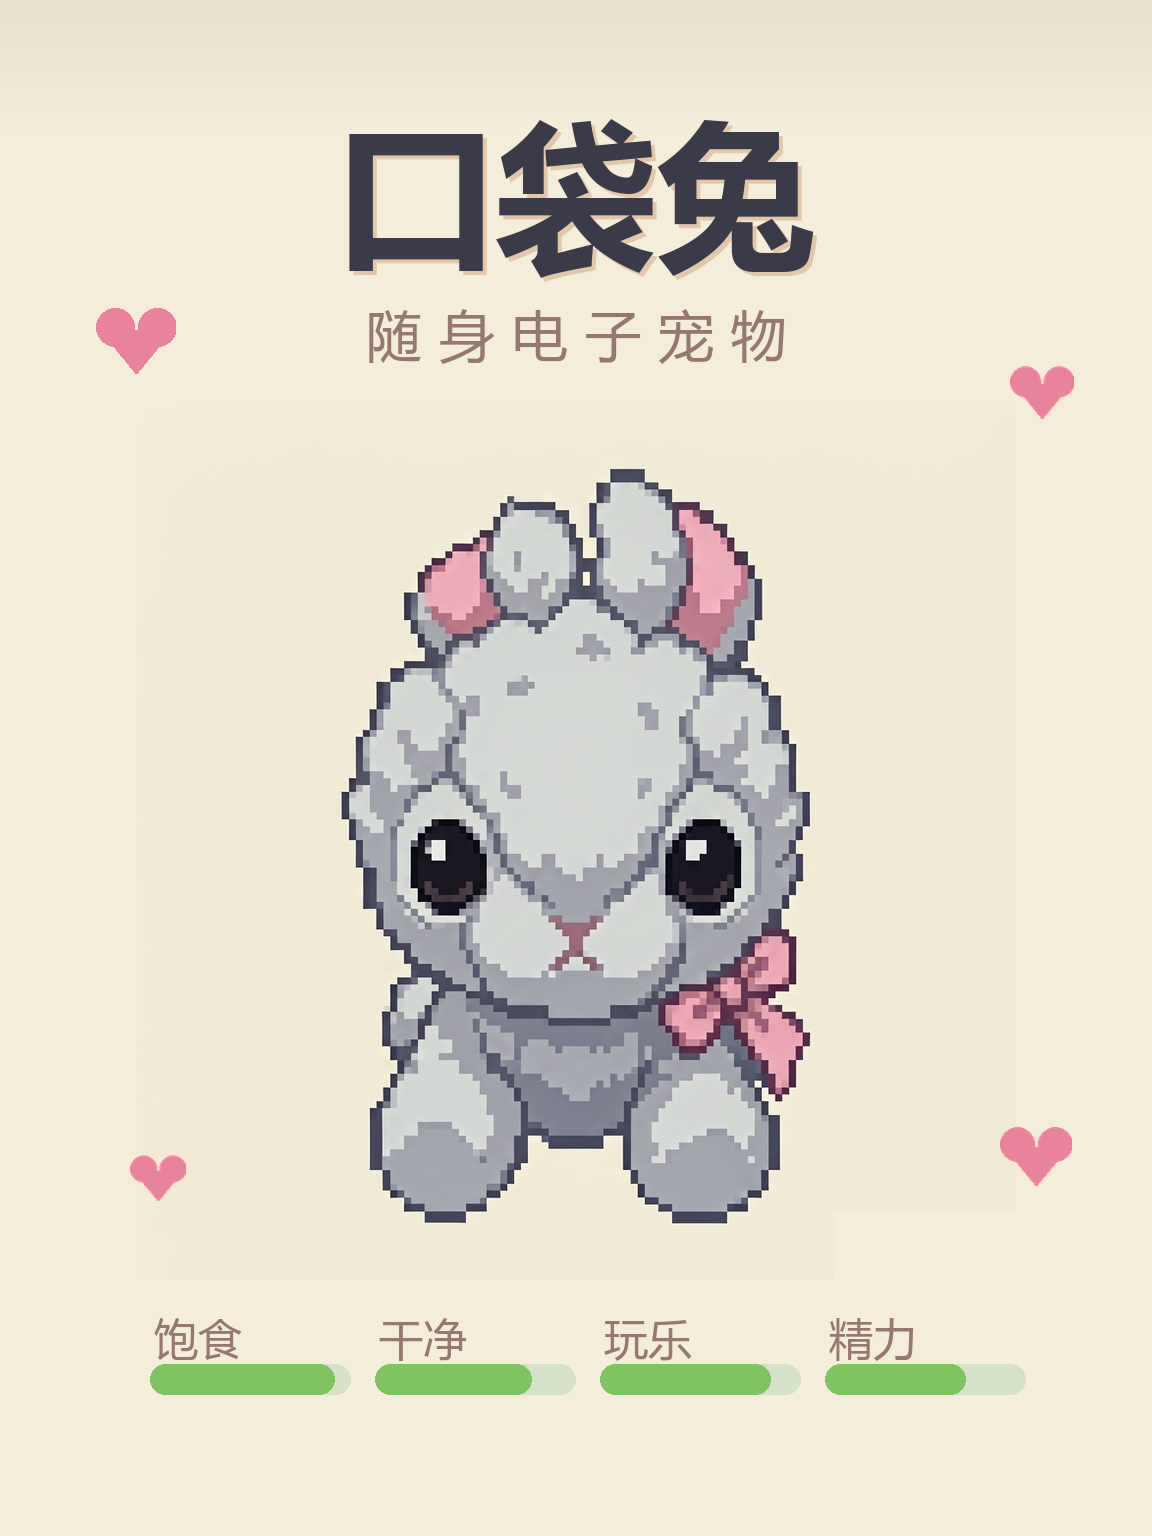
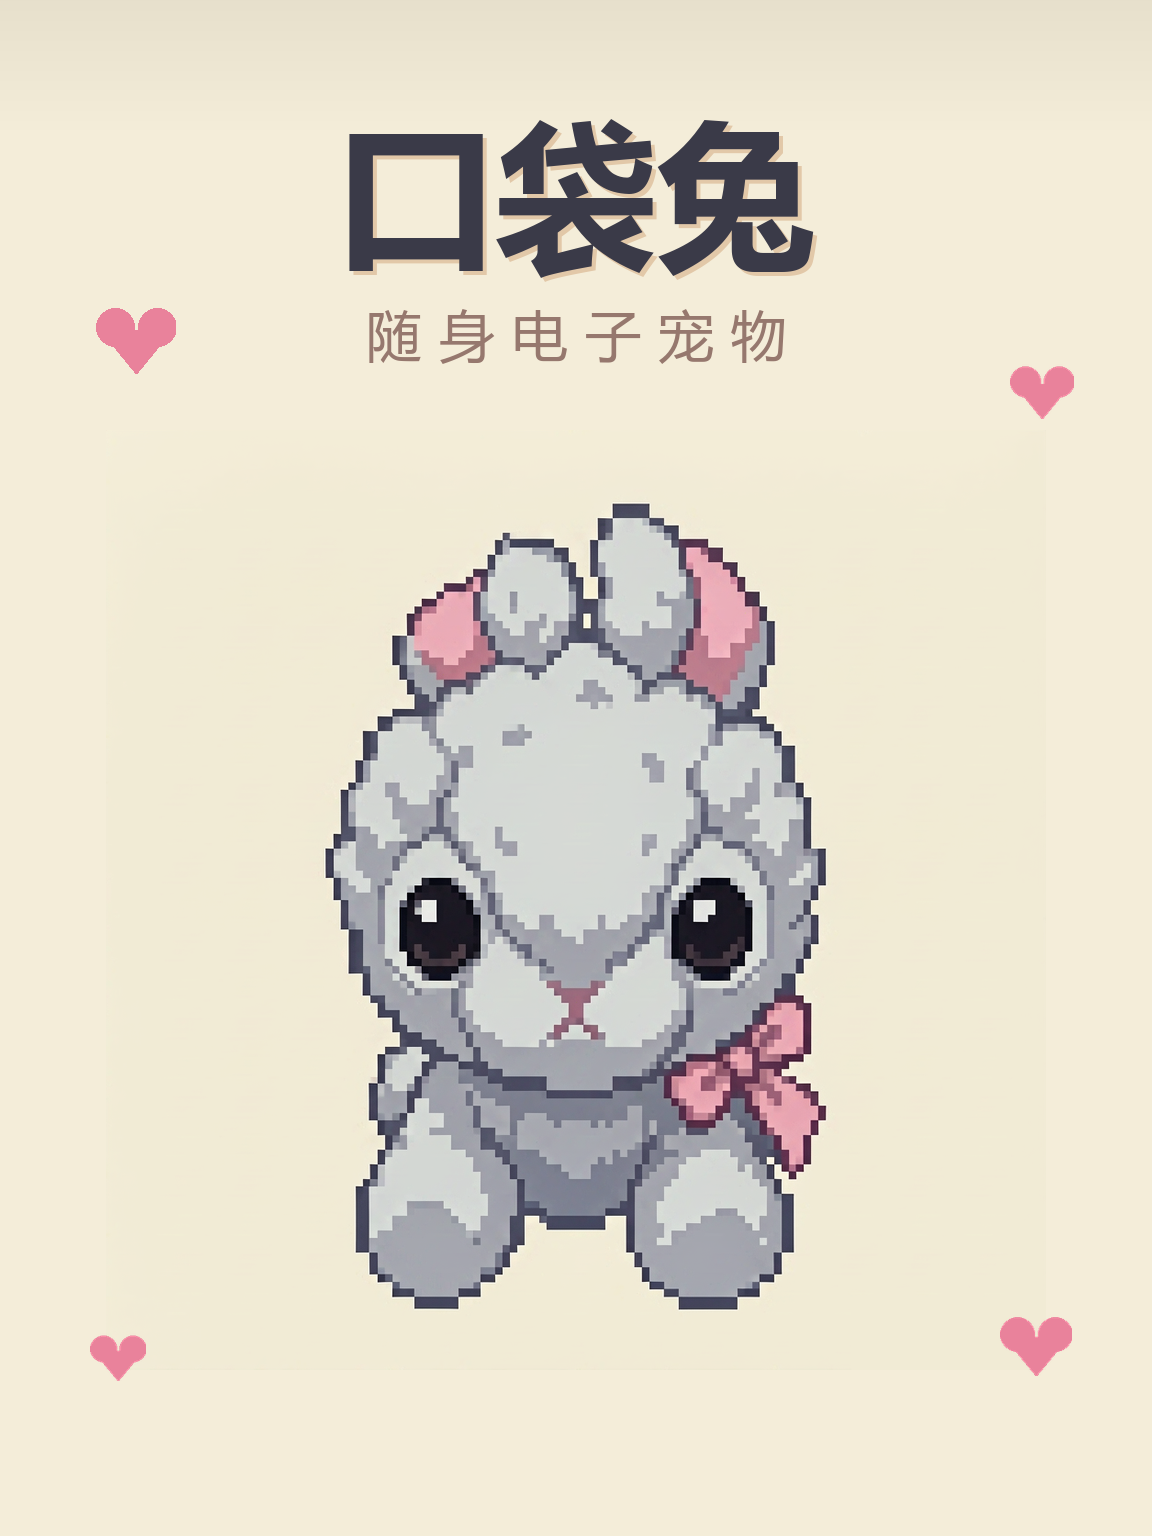
fix(publish): 封面去掉底部状态条文字（审核反馈：下部文字会被进度条遮挡），放大兔子主体并修水印擦除色差

Changed region(s): [[0.0625, 0.2812, 0.9375, 0.9062], [0.875, 0.7188, 0.9375, 0.7812], [0.0938, 0.75, 0.1562, 0.7812]]

diff --git a/tools/make_pet_cover.py b/tools/make_pet_cover.py
@@ -41,9 +41,11 @@ def main() -> None:
     bg = src.getpixel((8, 8))
 
     # Erase the generator watermark (bottom-right flat background area).
+    # Use the LOCAL background color there, not the global one - the source
+    # has a subtle gradient and a global fill leaves a visible patch.
     clean = src.copy()
     d = ImageDraw.Draw(clean)
-    d.rectangle((812, 944, src.width, src.height), fill=bg)
+    d.rectangle((812, 944, src.width, src.height), fill=src.getpixel((790, 960)))
 
     canvas = Image.new("RGB", (W, H), bg)
     draw = ImageDraw.Draw(canvas)
@@ -58,11 +60,13 @@ def main() -> None:
         band_draw.rectangle((0, i, W, i + 1), fill=alpha_color)
     canvas.paste(band, (0, 0))
 
-    # Hero rabbit, slightly above center.
-    rabbit_w = 880
+    # Hero rabbit, large and centered (bottom third stays clean: the
+    # community card overlay covers the lower part of the cover, and any
+    # text there gets occluded -> review rejection. Keep it text-free).
+    rabbit_w = 940
     rabbit = clean.resize((rabbit_w, rabbit_w), Image.LANCZOS)
     rabbit_x = (W - rabbit_w) // 2
-    rabbit_y = 400
+    rabbit_y = 430
     canvas.paste(rabbit, (rabbit_x, rabbit_y))
 
     ink = (58, 58, 72)
@@ -80,23 +84,6 @@ def main() -> None:
     sw = draw.textlength(sub, font=f_sub)
     draw.text(((W - sw) / 2, 296), sub, font=f_sub, fill=(150, 120, 110))
 
-    # Status bars motif (echoes the in-game UI).
-    labels = ["饱食", "干净", "玩乐", "精力"]
-    f_label = load_font(44, bold=False)
-    bar_y = rabbit_y + rabbit_w + 84
-    bar_x0, bar_w, bar_gap = 150, 200, 25
-    values = [0.92, 0.78, 0.85, 0.70]
-    green_full = (126, 196, 96)
-    green_dim = (214, 226, 200)
-    for i, (label, v) in enumerate(zip(labels, values)):
-        x = bar_x0 + i * (bar_w + bar_gap)
-        # label above bar
-        draw.text((x + 4, bar_y - 56), label, font=f_label, fill=(150, 120, 110))
-        draw.rounded_rectangle((x, bar_y, x + bar_w, bar_y + 30), radius=15, fill=green_dim)
-        fill_w = int(bar_w * v)
-        if fill_w > 0:
-            draw.rounded_rectangle((x, bar_y, x + fill_w, bar_y + 30), radius=15, fill=green_full)
-
     # A few pink hearts.
     heart = Image.new("RGBA", (80, 74), (0, 0, 0, 0))
     hd = ImageDraw.Draw(heart)
@@ -104,7 +91,7 @@ def main() -> None:
     hd.ellipse((0, 8, 38, 46), fill=pink)
     hd.ellipse((42, 8, 80, 46), fill=pink)
     hd.polygon([(4, 30), (76, 30), (40, 74)], fill=pink)
-    for (hx, hy, s) in [(96, 300, 1.0), (1010, 360, 0.8), (130, 1150, 0.7), (1000, 1120, 0.9)]:
+    for (hx, hy, s) in [(96, 300, 1.0), (1010, 360, 0.8), (90, 1330, 0.7), (1000, 1310, 0.9)]:
         hs = heart.resize((int(80 * s), int(74 * s)), Image.LANCZOS)
         canvas.paste(hs, (hx, hy), hs)
 
